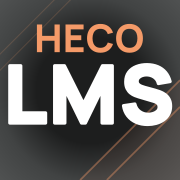
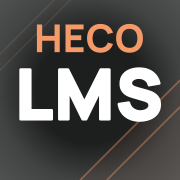
2709 1950

Changed region(s): [[0.0278, 0.3333, 0.9722, 0.7222]]

diff --git a/LMS-Frontend/src/assets/global.css b/LMS-Frontend/src/assets/global.css
@@ -10,11 +10,11 @@
   font-display: swap;
 }
 
-.heco-login-background { background: #F8F8F5 url('/brand/heco-lms-pattern-light.svg') right bottom / min(70vw, 840px) auto no-repeat; }
+.heco-login-background { background-color: #dfdcd7; }
 .heco-dark-panel {
   background-color: #1D1E1E;
 }
-.heco-panel-edge::after, .heco-admin-surface::after {
+.heco-panel-edge::after {
   content: '';
   position: absolute;
   right: 0;
@@ -24,7 +24,6 @@
   background: url('/brand/heco-lms-pattern-dark.svg') right bottom / 540px 180px no-repeat;
   pointer-events: none;
 }
-.heco-admin-surface::after { position: fixed; width: 20px; background-image: url('/brand/heco-lms-pattern-light.svg'); }
 
 html {
   /* Ваше свойство: резервирует место, чтобы контент не прыгал */
@@ -51,8 +50,8 @@ html {
   --gray-bg-light: 248 249 250;
 
   /* Градиенты фона (можно оставить HEX) */
-  --bg-grad-1: #e2e4e7;
-  --bg-grad-2: #e2e4e7;
+  --bg-grad-1: #dfdcd7;
+  --bg-grad-2: #dfdcd7;
 
   /* Яркие цвета для Статусов (RGB) */
   --status-pending: 0 122 255; 

diff --git a/LMS-Frontend/src/AdminLayout.jsx b/LMS-Frontend/src/AdminLayout.jsx
@@ -3,14 +3,12 @@ import { Outlet } from 'react-router-dom';
 import { Sidebar } from "./components/Sidebar";
 
 export function AdminLayout({ user, onLogout, selectedLeague, onLeagueChange, onPatchSelectedLeague, onPatchLeague }) {
-  // Наш супер-сложный фон
-const complexMeshGradient = {
-  backgroundColor: '#e2e4e7'
-};
+  const complexMeshGradient = {
+    backgroundColor: '#dfdcd7'
+  };
 
   return (
-    // Убрали bg-[#dededeff], добавили style
-    <div className="heco-admin-surface flex min-h-screen" style={complexMeshGradient}>
+    <div className="flex min-h-screen" style={complexMeshGradient}>
       <Sidebar 
         user={user} 
         onLogout={onLogout} 
